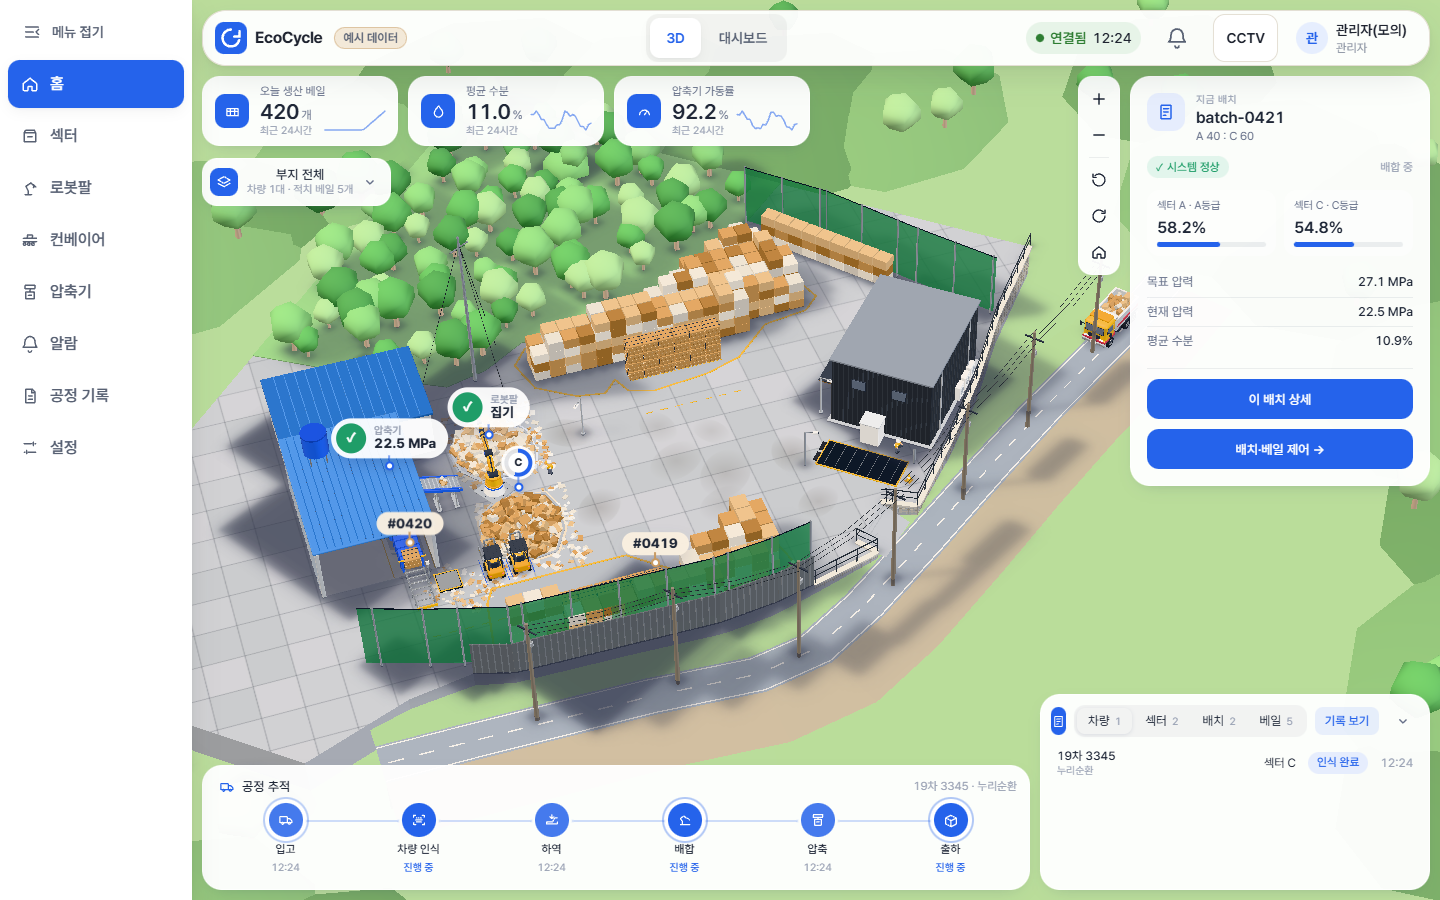
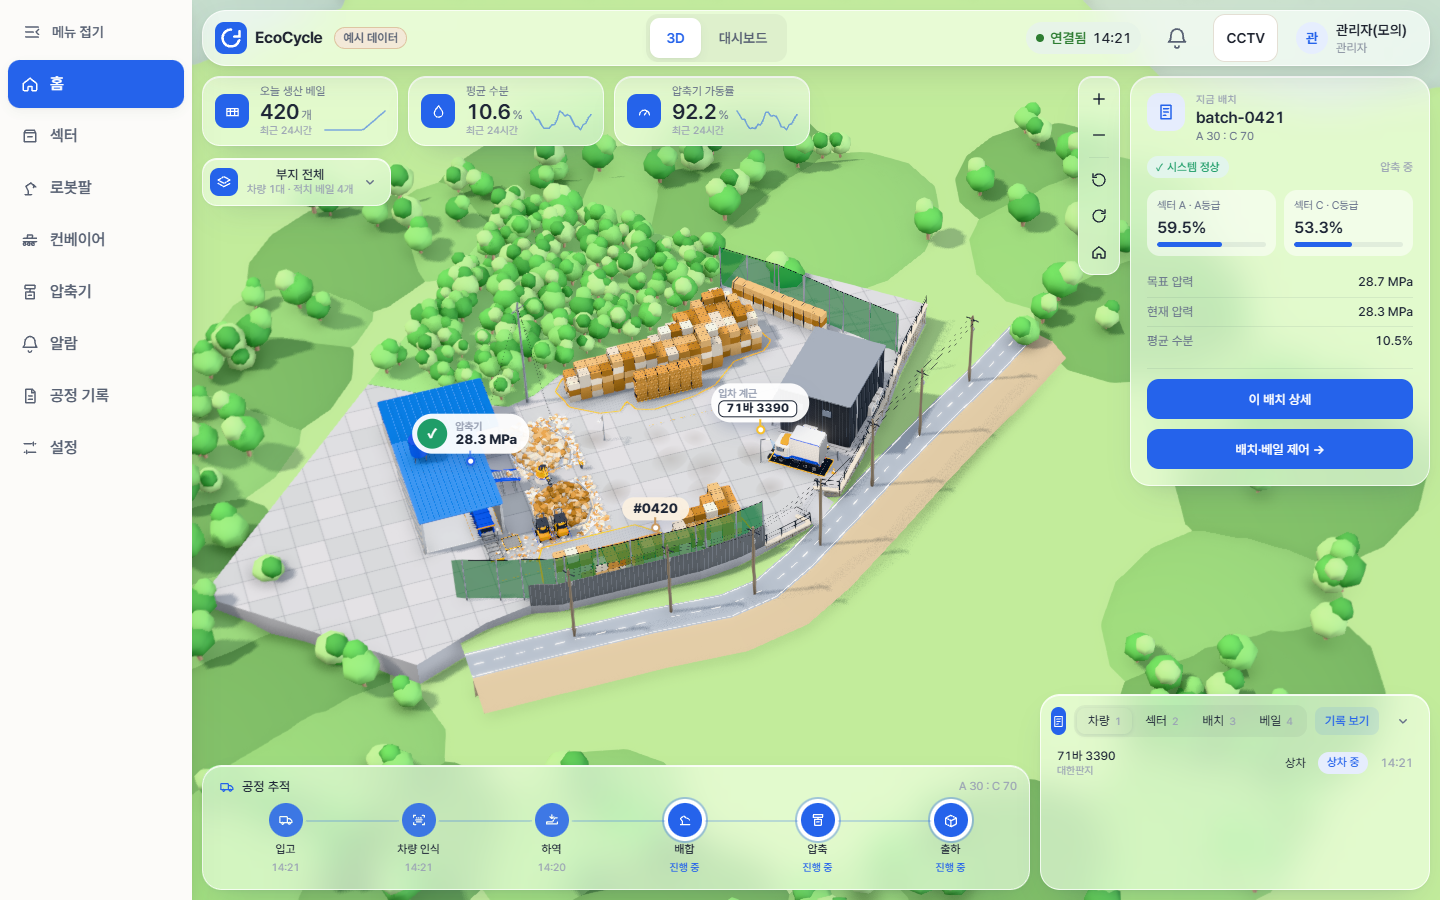
fix(studio): 부지 전체 화면이 외곽 꼭짓점을 투영해 서쪽 포장 경계까지 담음

diff --git a/app/src/studio/three/Rig.tsx b/app/src/studio/three/Rig.tsx
@@ -71,6 +71,77 @@ const fromPreset = (p: ViewPreset): View => {
   return { x, y: p.height, z, dist: p.distance, az: SOUTH_AZ + p.azimuth, pol: p.polar, fov: p.fov ?? BASE_FOV };
 };
 
+/**
+ * 부지 전체(wide) 화면에 다 들어와야 하는 외곽 꼭짓점 (사진 px, 바닥 높이 0): 마당 포장 판(PLATEAU)의 서쪽·남쪽 끝과 남동 울타리,
+ * 동쪽 옹벽·도로 가장자리, 북쪽 숲 가장자리. 사진 밖으로 나간 포장 판 서쪽 끝(x −60)까지 담는다
+ */
+const OUTLINE: readonly (readonly [number, number])[] = ([
+  [-60, 318],
+  [-60, 680],
+  [200, 680],
+  [240, 600],
+  [300, 548],
+  [420, 446],
+  [470, 384],
+  [503, 334],
+  [514, 276],
+  [513, 200],
+  [498, 40],
+  [252, 0],
+  [0, 0],
+] as const).map(([x, y]) => sitePx(x, y));
+/** 외곽 꼭짓점이 패널 가장자리에서 떨어져야 하는 여백(px) */
+const OUTLINE_MARGIN = 10;
+
+/** 보는 점(tx, ty, tz)·거리·방위·천정각에서 외곽 꼭짓점이 모두 패널 밖 빈 화면 안에 투영되는가 */
+function outlineFits(
+  tx: number,
+  ty: number,
+  tz: number,
+  dist: number,
+  a: number,
+  p: number,
+  tanHalf: number,
+  width: number,
+  height: number,
+  ins: { right: number; bottom: number; top: number },
+): boolean {
+  // 카메라 → 보는 점 방향(f)과 화면 축(오른쪽 r, 위 u). lookAt(위 = +y)과 같다
+  const dx = Math.sin(p) * Math.cos(a);
+  const dy = Math.cos(p);
+  const dz = -Math.sin(p) * Math.sin(a);
+  const fx = -dx;
+  const fy = -dy;
+  const fz = -dz;
+  let rx = -fz;
+  let rz = fx;
+  const rl = Math.hypot(rx, rz) || 1;
+  rx /= rl;
+  rz /= rl;
+  const ux = -rz * fy;
+  const uy = rz * fx - rx * fz;
+  const uz = rx * fy;
+  const aspect = width / Math.max(1, height);
+  const cx = tx + dx * dist;
+  const cy = ty + dy * dist;
+  const cz = tz + dz * dist;
+  const left = -1 + (2 * OUTLINE_MARGIN) / width;
+  const right = 1 - (2 * (ins.right + OUTLINE_MARGIN)) / width;
+  const bottom = -1 + (2 * (ins.bottom + OUTLINE_MARGIN)) / height;
+  const top = 1 - (2 * (ins.top + OUTLINE_MARGIN)) / height;
+  for (const [x, z] of OUTLINE) {
+    const vx = x - cx;
+    const vy = -cy;
+    const vz = z - cz;
+    const depth = vx * fx + vy * fy + vz * fz;
+    if (depth <= 0.1) return false;
+    const sx = (vx * rx + vz * rz) / (depth * tanHalf * aspect);
+    const sy = (vx * ux + vy * uy + vz * uz) / (depth * tanHalf);
+    if (sx < left || sx > right || sy < bottom || sy > top) return false;
+  }
+  return true;
+}
+
 /** 안개 기본 범위 (Stage의 fog와 같다) */
 const FOG_NEAR = 170;
 const FOG_FAR = 380;
@@ -94,6 +165,7 @@ export function Rig({ director, focusKey, api, inset }: RigProps) {
   const anchor = useRef({ x: 0, y: 0, z: 0 });
   const insetRef = useRef(inset);
   insetRef.current = inset;
+  const aimAt = useRef({ x: 0, z: 0 }).current;
 
   useEffect(() => {
     api.current = {
@@ -248,21 +320,47 @@ export function Rig({ director, focusKey, api, inset }: RigProps) {
 
     const a = c.az * DEG;
     const p = c.pol * DEG;
-    // 세로 화면에서는 위아래가 남으므로 구역(mid)은 다 물러나지 않는다(최대 1.3배). 부지 전체(wide)는 좁은 폰에서도 부지가 다 들어오게 끝까지 물러난다
+    const ins = insetRef.current;
+    // 세로 화면에서는 위아래가 남으므로 구역(mid)은 다 물러나지 않는다(최대 1.3배)
     const wideness = Math.min(1, Math.max(0, (c.dist - TIER_DISTANCE.mid) / (TIER_DISTANCE.wide - TIER_DISTANCE.mid)));
-    const ratio = REFERENCE_ASPECT / Math.max(0.3, (size.width - insetRef.current.right) / Math.max(1, size.height));
-    // (부지는 비스듬히 보면 기준 화면이 가정한 것보다 옆으로 넓다: 좁은 화면의 wide는 조금 더 물러나 서쪽 끝(압축기 건물)까지 담는다)
-    const narrow = Math.min(1, Math.max(0, (ratio - 1) / 1.5));
-    const fit = Math.min(1.3 + wideness * 2.3, Math.max(1, ratio) * (1 + 0.24 * wideness * narrow));
-    const dist = c.dist * fit;
-    // 패널에 가려지지 않게 보는 점을 화면에서 왼쪽·위로 민다
-    const upp = (2 * dist * Math.tan((camera.fov * DEG) / 2)) / Math.max(1, size.height);
-    const shiftRight = (insetRef.current.right / 2) * upp;
+    const ratio = REFERENCE_ASPECT / Math.max(0.3, (size.width - ins.right) / Math.max(1, size.height));
+    const fit = Math.min(1.3 + wideness * 2.3, Math.max(1, ratio));
+    // 거리 → 보는 점(패널에 가려지지 않게 화면에서 왼쪽·위로 민 점)
+    const tanHalf = Math.tan((camera.fov * DEG) / 2);
     // (눈높이로 수평에 가깝게 보는 화면(사진 방향)은 위아래 밀기를 하지 않는다: 바닥 위로 밀면 카메라가 앞뒤로 몇 m씩 옮겨 간다)
     const level = Math.min(1, Math.max(0, (84 - c.pol) / 14));
-    const shiftDown = ((((insetRef.current.bottom - insetRef.current.top) / 2) * upp) / Math.max(0.3, Math.cos(p))) * level;
-    const tx = c.x - Math.sin(a) * shiftRight + Math.cos(a) * shiftDown;
-    const tz = c.z - Math.cos(a) * shiftRight - Math.sin(a) * shiftDown;
+    const aim = (dist: number): void => {
+      const upp = (2 * dist * tanHalf) / Math.max(1, size.height);
+      const shiftRight = (ins.right / 2) * upp;
+      const shiftDown = ((((ins.bottom - ins.top) / 2) * upp) / Math.max(0.3, Math.cos(p))) * level;
+      aimAt.x = c.x - Math.sin(a) * shiftRight + Math.cos(a) * shiftDown;
+      aimAt.z = c.z - Math.cos(a) * shiftRight - Math.sin(a) * shiftDown;
+    };
+    let dist = c.dist * fit;
+    // 부지 전체(wide, 비스듬히 볼 때)는 부지 외곽(포장 판의 서쪽·남쪽 끝, 옹벽, 숲 가장자리)이 패널 밖 빈 화면에 다 들어오는 거리까지 물러난다.
+    // 화면비·패널을 어림하지 않고 외곽 꼭짓점을 직접 투영해 잰다. 구역(mid)과 위에서 보기는 그대로다
+    const oblique = Math.min(1, Math.max(0, (c.pol - 10) / 10));
+    if (wideness > 0 && oblique > 0) {
+      const fits = (d: number): boolean => {
+        aim(d);
+        return outlineFits(aimAt.x, c.y, aimAt.z, d, a, p, tanHalf, size.width, size.height, ins);
+      };
+      if (!fits(dist)) {
+        let lo = dist;
+        let hi = dist * 2.5;
+        if (fits(hi)) {
+          for (let i = 0; i < 14; i += 1) {
+            const m = (lo + hi) / 2;
+            if (fits(m)) hi = m;
+            else lo = m;
+          }
+        }
+        dist += (hi - dist) * wideness * oblique;
+      }
+    }
+    aim(dist);
+    const tx = aimAt.x;
+    const tz = aimAt.z;
     camera.position.set(tx + Math.sin(p) * Math.cos(a) * dist, c.y + Math.cos(p) * dist, tz - Math.sin(p) * Math.sin(a) * dist);
     camera.lookAt(tx, c.y, tz);
     // 안개는 카메라 거리를 따라간다: 좁은 화면에서 부지 전체·위에서 보기로 멀리 물러나도 부지는 또렷하고 먼 언덕·능선만 흐려진다

diff --git a/docs/screenshots/studio/site-layout/README.md b/docs/screenshots/studio/site-layout/README.md
@@ -12,7 +12,7 @@
 | 파일 | 크기 | 보는 곳 |
 | --- | --- | --- |
 | `demo-top-*.png`, `live-top-*.png` | 390×844·820×1180·1440×900 | **위에서 보기**: 바로 위에서, 사진처럼 북쪽이 위 (`overall.png`·`site-marked.png`와 견준다) |
-| `demo-wide-*.png`, `live-wide-*.png` | 〃 | **부지 전체**: 숲·언덕, 도로, 옹벽, 사무실, 서쪽 끝 압축기 건물까지 부지 전체 (폰·세로 태블릿은 비스듬한 부지 폭까지 담게 더 물러난다) |
+| `demo-wide-*.png`, `live-wide-*.png` | 〃 | **부지 전체**: 숲·언덕, 도로, 옹벽, 사무실, 서쪽 끝 압축기 건물과 그 서쪽·남서쪽 마당 포장 판 모서리까지 부지 전체. 카메라는 부지 외곽 꼭짓점(포장 판 서쪽·남쪽 끝, 남동 울타리, 동쪽 옹벽, 북쪽 숲 가장자리)을 투영해 패널 밖 빈 화면에 다 들어오는 거리까지 물러난다(`three/Rig.tsx` `OUTLINE`). 그래서 폰·세로 태블릿은 부지가 작고 위아래가 남는다 |
 | `demo-default-*.png`, `live-default-*.png` | 〃 | 기본 구역 "섹터·로봇": 레일 축에 대칭인 큰 더미 A·C, 흩어진 파지 조각, 줄눈 바닥 |
 | `demo-photo-gate-*.png`, `live-photo-gate-*.png` | 〃 | **경사로 위 입구에서 서쪽** (`from-gate-inside.png`): 왼쪽 남동 베일 벽, 줄눈 마당, 로봇·더미·압축기 건물, 오른쪽 멀리 북서 베일과 숲. 사진의 사무실은 이 화각보다 오른쪽이라 화면 밖(사무실은 아래 세 화면) |
 | `demo-photo-weighbridge-*.png`, `live-photo-weighbridge-*.png` | 〃 | **계근대 단 남동 아래 도로에서 북서** (`weighbridge.png`): 블록 옹벽·쇠 난간, 노란 테두리 계근대·콘, 사무실 남쪽 면, 왼쪽 베일 |
